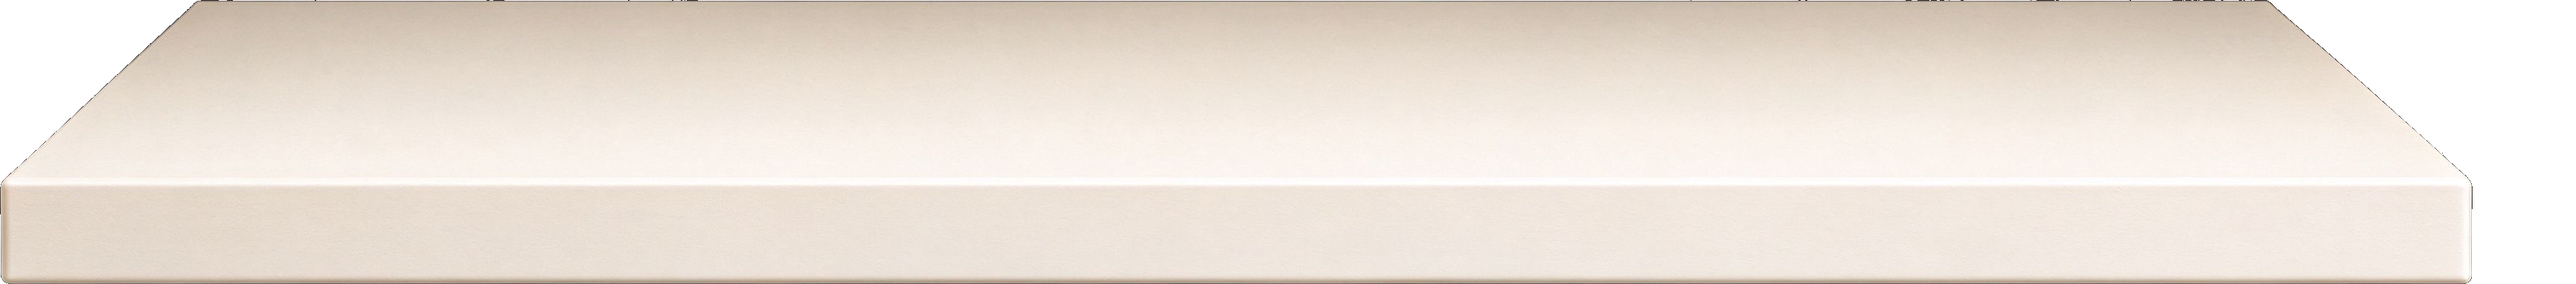
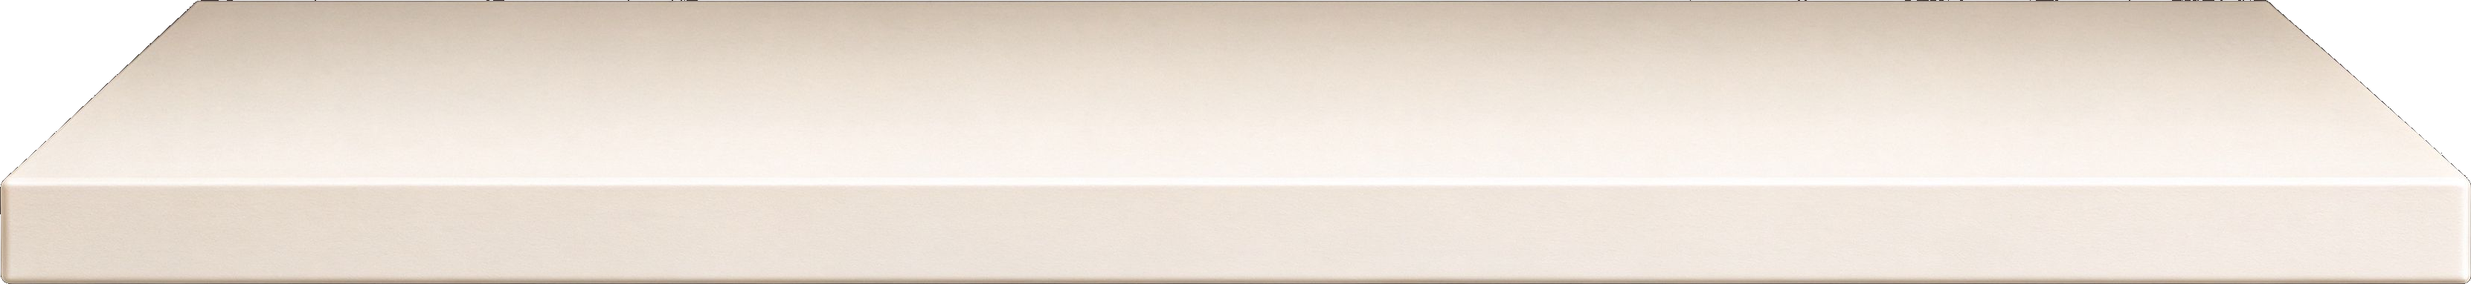
fix: 实时时间线接通 + 执行过程并入时间线 + 书架层板左右对称 + 空态镜像
② 实时思考时间线（图四/五「处理中只有时间在跳」的根因）
- onTrace 原来是空实现 → liveTrace 恒为 null → 实时执行事件从未显示过；改为写回状态
- 完成后的执行摘要沿用 durationSeconds（「用时 Ns」）

③ 执行过程卡并入时间线（去掉卡片外框）
- AgentTraceView 增 inline 形态：去边框/圆角/底色、状态行去水平内边距、事件区去顶部分隔线
- 实时时间线与历史消息两处调用点改用 inline；失败态红边仅在非 inline 时保留

一 书架层板左右不对称
- 根因：shelf-plank.png 的不透明包围盒右侧残留 140px 透明（顶部行左右差达 145px）
- 重新裁到包围盒（3322×383），裁后左右间隙差 ≤8px（0.24%）
- 比例常量同步：3462/383 → 3322/383

六 新建对话空态文字镜像
- 根因：Android 的 inverted 列表用 scale:-1（X、Y 同翻），此前补偿写的是 scaleY:-1（只翻 Y）；且列表组件本身会给空态套 inversionStyle，手动补偿多余
- 删除空态容器上的手动翻转

diff --git a/mobile-rn/src/components/agent-run-view.tsx b/mobile-rn/src/components/agent-run-view.tsx
@@ -106,13 +106,14 @@ export function AgentTraceView({
   trace,
   defaultExpanded = false,
   durationSeconds,
-
+  inline = false,
 }: {
   trace: AgentRunTrace;
   defaultExpanded?: boolean;
   /** 本轮总耗时（秒）：完成态在工作摘要后追加“用时 Ns”。 */
   durationSeconds?: number;
-
+  /** 时间线形态：不画卡片外框与底色，状态行与执行事件直接铺在消息/实时时间线里。 */
+  inline?: boolean;
 }) {
   const [expanded, setExpanded] = useState(defaultExpanded || trace.status === "running");
   const status = runStatus(trace);
@@ -140,12 +141,12 @@ export function AgentTraceView({
   ].filter(Boolean).join(" · ") || "正在分析任务";
 
   return (
-    <View style={[styles.trace, trace.status === "error" && styles.traceError]}>
+    <View style={[styles.trace, inline && styles.traceInline, !inline && trace.status === "error" && styles.traceError]}>
       <Pressable
         accessibilityRole="button"
         accessibilityState={{ expanded }}
         onPress={() => setExpanded((value) => !value)}
-        style={styles.traceHeader}
+        style={[styles.traceHeader, inline && styles.traceHeaderInline]}
       >
         <View style={styles.traceIcon}>
           <Ionicons name="git-network-outline" size={15} color={status.color} />
@@ -158,7 +159,7 @@ export function AgentTraceView({
         <Ionicons name={expanded ? "chevron-up" : "chevron-down"} size={18} color={colors.textMuted} />
       </Pressable>
       {expanded ? (
-        <View style={styles.events}>
+        <View style={[styles.events, inline && styles.eventsInline]}>
           {trace.collaborationRequired ? (
             <View style={styles.collaborationNotice}>
               <Ionicons name="people-outline" size={16} color={colors.primary} />
@@ -311,6 +312,10 @@ const styles = StyleSheet.create({
     backgroundColor: "#EFF3F0",
   },
   traceError: { borderColor: "#E4B4AE" },
+  // 时间线形态：去掉卡片外框、底色与圆角，状态行与事件行直接落在消息/时间线上。
+  traceInline: { borderWidth: 0, borderRadius: 0, backgroundColor: "transparent" },
+  traceHeaderInline: { paddingHorizontal: 0 },
+  eventsInline: { borderTopWidth: 0 },
   traceHeader: {
     minHeight: 42,
     flexDirection: "row",

diff --git a/mobile-rn/src/screens/assistant-screen.tsx b/mobile-rn/src/screens/assistant-screen.tsx
@@ -854,6 +854,9 @@ export function AssistantScreen() {
           if (delta.reasoning) setLiveReasoning((current) => current + delta.reasoning);
         },
         onTrace: (trace) => {
+          // 实时时间线的数据源：把执行事件流同步到界面，否则只看得见计时。
+          latestTrace = trace;
+          setLiveTrace(trace);
         },
       });
       const processingSeconds = Math.max(1, Math.round((Date.now() - requestStartedAt) / 1000));
@@ -1020,11 +1023,11 @@ export function AssistantScreen() {
                 <Text style={styles.liveHeaderText}>处理中 · 已处理 {thinkingSeconds}s</Text>
               </View>
               {liveReasoning.trim() ? <ReasoningBlock text={liveReasoning} live /> : null}
-              {liveTrace ? <AgentTraceView trace={liveTrace} defaultExpanded /> : null}
+              {liveTrace ? <AgentTraceView trace={liveTrace} defaultExpanded inline /> : null}
             </View>
           ) : null}
           ListEmptyComponent={models.length ? (
-            <View style={[styles.welcomeBox, { transform: [{ scaleY: -1 }] }]}>
+            <View style={styles.welcomeBox}>
               <Text style={styles.welcomeTitle}>聊灵感、记想法</Text>
               <View style={styles.welcomeChipsRow}>
               {["记一个灵感", "梳理一下我的想法", "随便聊聊"].map((suggestion) => (
@@ -1051,7 +1054,7 @@ export function AssistantScreen() {
                 </View>
               ) : null}
               {item.metadata?.agentTrace ? (
-                <AgentTraceView trace={item.metadata.agentTrace} durationSeconds={item.metadata.processingSeconds} />
+                <AgentTraceView trace={item.metadata.agentTrace} durationSeconds={item.metadata.processingSeconds} inline />
               ) : failed ? (
                 <View style={styles.failureCard}>
                   <Text style={styles.failureTitle}>执行失败</Text>

diff --git a/mobile-rn/src/screens/projects-screen.tsx b/mobile-rn/src/screens/projects-screen.tsx
@@ -533,7 +533,7 @@ function coverColor(title: string): string {
             // 书架 = 一行的背景层（照书架类应用的画法）：层板贴图铺在行底部、全宽贯通，
             // 书格底对齐站在板上；与本书数无关——1 本书板也贯通。
             const cellWidth = Math.max(60, Math.floor((shelfInnerWidth - 28 - 12 - 3 * 10) / 4));
-            const plankStrip = Math.round(shelfInnerWidth / (3462 / 383));
+            const plankStrip = Math.round(shelfInnerWidth / (3322 / 383));
             const plankBelow = Math.round(plankStrip * 0.62);
             const rowHeight = Math.round((cellWidth * 4) / 3) + plankBelow;
             return (
